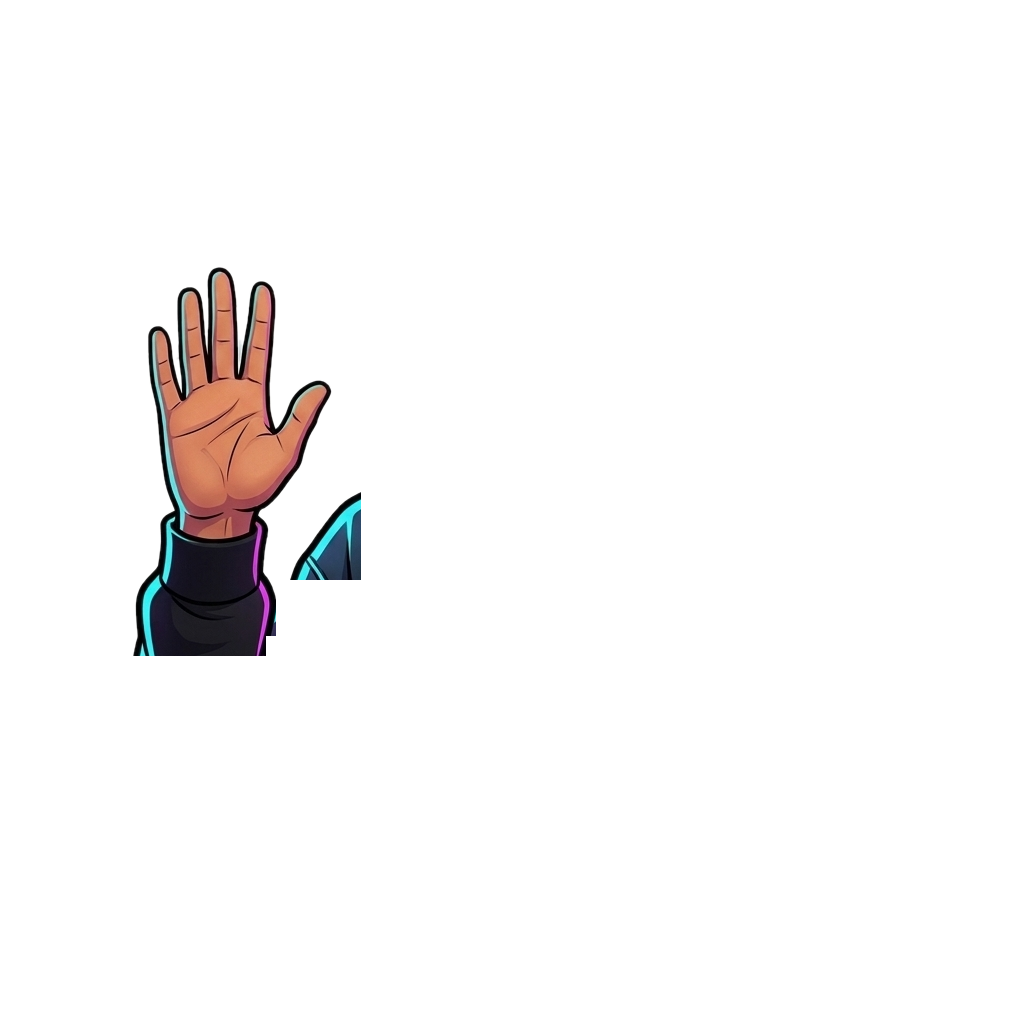
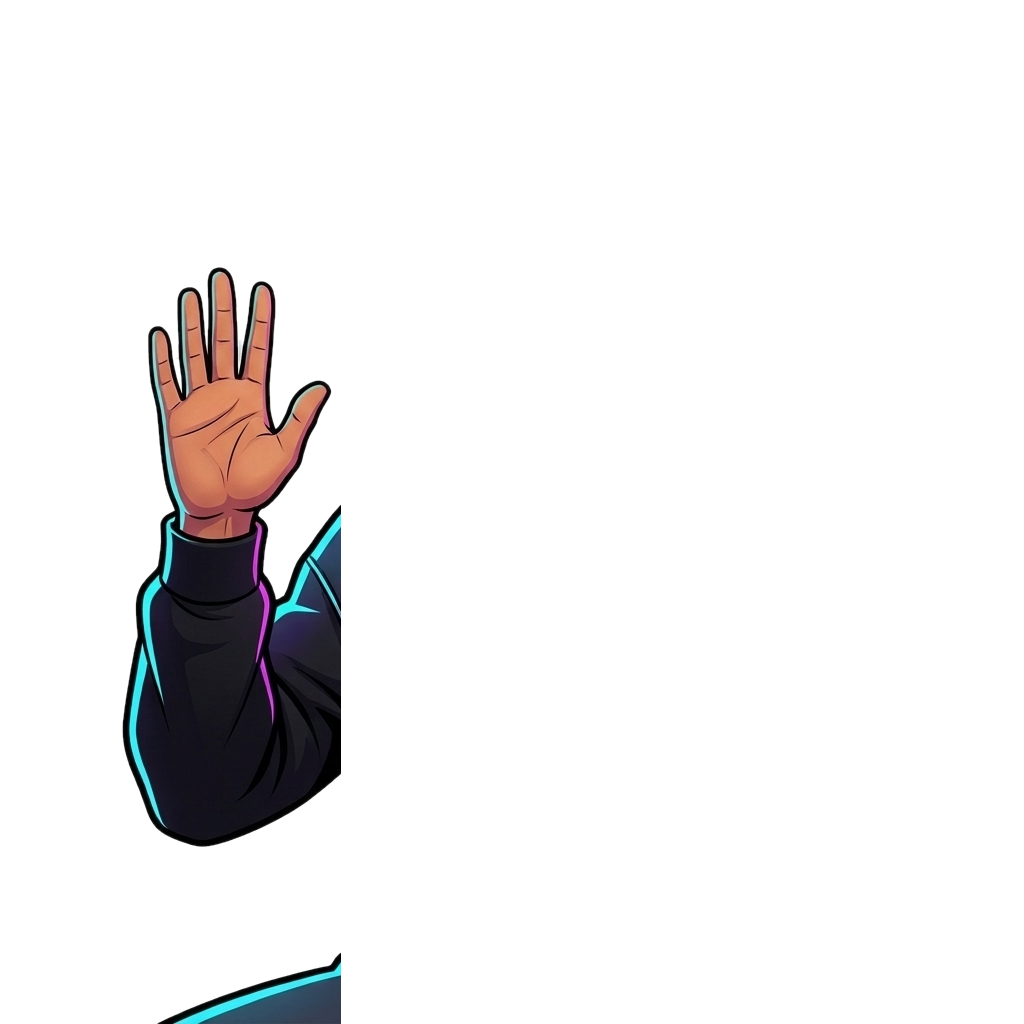
fix: eliminate shoulder clipping with anatomical under-torso layering and shoulder joint pivot

Changed region(s): [[0.0938, 0.4688, 0.375, 0.8438], [0.1562, 0.9375, 0.3438, 1.0]]

diff --git a/src/components/DeveloperCharacter.tsx b/src/components/DeveloperCharacter.tsx
@@ -14,14 +14,14 @@ export const DeveloperCharacter: React.FC<DeveloperCharacterProps> = ({
 }) => {
   const shouldReduceMotion = useReducedMotion();
 
-  // Natural waving rotation keyframes from the elbow joint (10-12° total sweep with resting pause)
+  // Natural waving rotation from the shoulder joint (8–10° subtle human greeting arc with resting pause)
   const waveAnimation = shouldReduceMotion ? { rotate: 0 } : {
-    rotate: [0, -6, 6, -5, 4, 0, 0],
+    rotate: [0, -5, 5, -4, 3, 0, 0],
     transition: {
-      duration: 2.0,
+      duration: 2.2,
       repeat: Infinity,
       ease: "easeInOut",
-      times: [0, 0.2, 0.42, 0.62, 0.78, 0.88, 1.0]
+      times: [0, 0.22, 0.44, 0.64, 0.8, 0.9, 1.0]
     }
   };
 
@@ -60,7 +60,7 @@ export const DeveloperCharacter: React.FC<DeveloperCharacterProps> = ({
         </motion.div>
       )}
 
-      {/* SVG Container: Layering Chair, Character Avatar & Coding Station */}
+      {/* SVG Container: Layering Chair, Seamless Character Avatar & Coding Station */}
       <svg
         viewBox="0 0 500 520"
         className="w-full h-auto filter drop-shadow-[0_16px_35px_rgba(0,0,0,0.85)]"
@@ -111,31 +111,21 @@ export const DeveloperCharacter: React.FC<DeveloperCharacterProps> = ({
           </text>
         </g>
 
-        {/* ── Layer 2: Premium Personalized Surya Developer Avatar ── */}
+        {/* ── Layer 2: Seamlessly Layered Surya Developer Avatar ── */}
         <g>
           {/* Neon rim ambient aura directly behind avatar */}
           <ellipse cx="250" cy="260" rx="160" ry="170" fill="#00F0FF" opacity="0.12" filter="blur(20px)" />
           <ellipse cx="270" cy="240" rx="140" ry="150" fill="#FF007F" opacity="0.1" filter="blur(25px)" />
 
-          {/* 2A. Stationary Body, Head, Wavy Hair, Hoodie & Torso */}
-          <image
-            href="/surya-avatar-body.png"
-            x="40"
-            y="42"
-            width="420"
-            height="420"
-            preserveAspectRatio="xMidYMid meet"
-            filter="url(#avatarNeonRim)"
-          />
-
-          {/* 2B. Continuous Waving Limb: Hand + Wrist + Forearm Sleeve All in One Piece */}
-          {/* Anatomical pivot point at the elbow joint: x=126px, y=298px */}
+          {/* 2A. Waving Arm Layer (Rendered UNDER the torso layer) */}
+          {/* Primary rotation pivot at anatomical shoulder joint: x=153px, y=286px */}
+          {/* The arm base is extended underneath the torso so no cut or gap is ever exposed */}
           <motion.g
             animate={waveAnimation}
             style={{ 
-              originX: "126px", 
-              originY: "298px",
-              transformOrigin: "126px 298px"
+              originX: "153px", 
+              originY: "286px",
+              transformOrigin: "153px 286px"
             }}
           >
             <image
@@ -149,6 +139,18 @@ export const DeveloperCharacter: React.FC<DeveloperCharacterProps> = ({
             />
           </motion.g>
 
+          {/* 2B. Stationary Torso Layer (Rendered ON TOP of the arm base) */}
+          {/* 100% intact chest, head, wavy hair, face, and natural shoulder contour */}
+          <image
+            href="/surya-avatar-body.png"
+            x="40"
+            y="42"
+            width="420"
+            height="420"
+            preserveAspectRatio="xMidYMid meet"
+            filter="url(#avatarNeonRim)"
+          />
+
           {/* Glowing "SP" Monogram Emblem Highlight on Hoodie Chest */}
           <g transform="translate(205, 305)" filter="url(#spNeonGlow)">
             <rect x="0" y="0" width="34" height="20" rx="5" fill="#080410" stroke="#00F0FF" strokeWidth="2" opacity="0.9" />
@@ -159,7 +161,6 @@ export const DeveloperCharacter: React.FC<DeveloperCharacterProps> = ({
         </g>
 
         {/* ── Layer 3: Foreground Coding Monitor & Futuristic Cyberpunk Desk ── */}
-        {/* Anchors the elbow naturally behind the desk and monitor */}
         <g>
           {/* Cyberpunk Desk Surface */}
           <polygon points="25,445 475,445 500,520 0,520" fill="#090514" stroke="#000" strokeWidth="6" />
